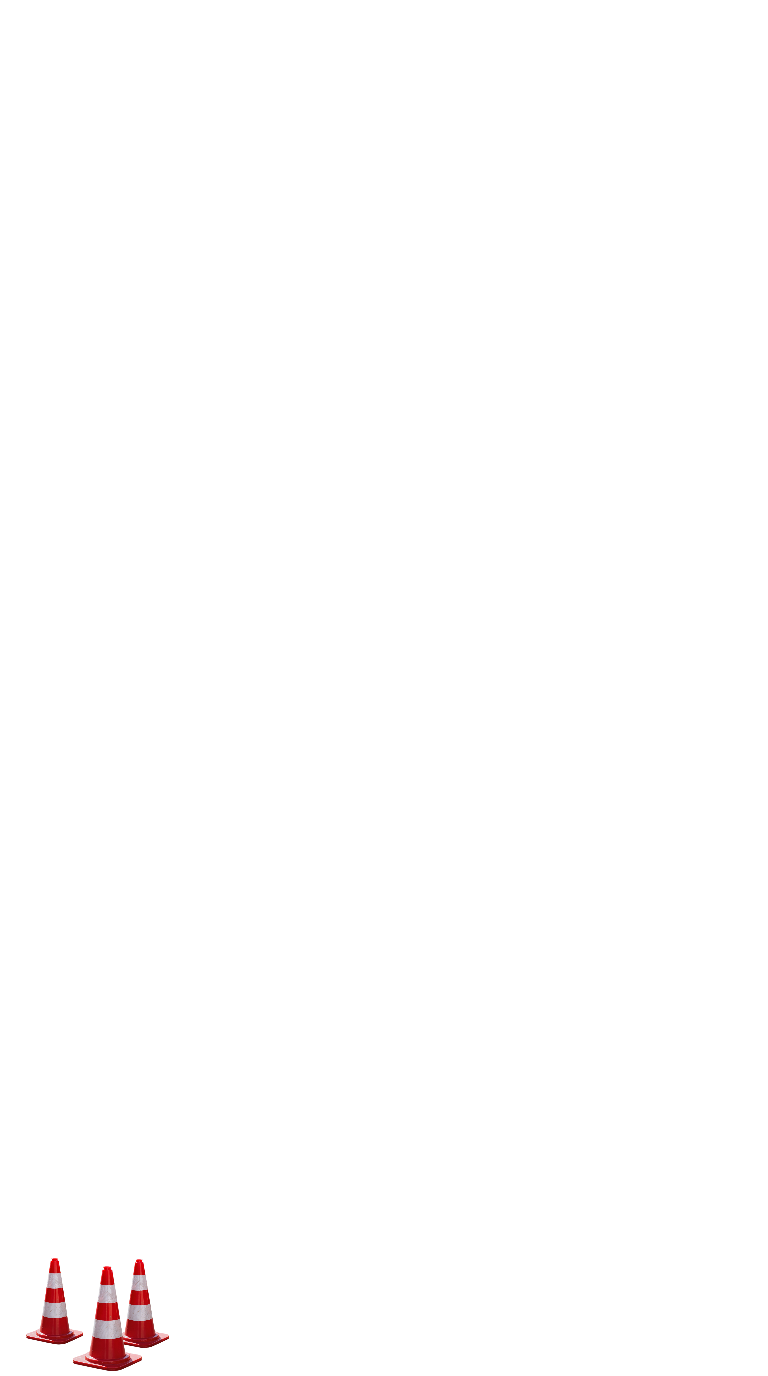
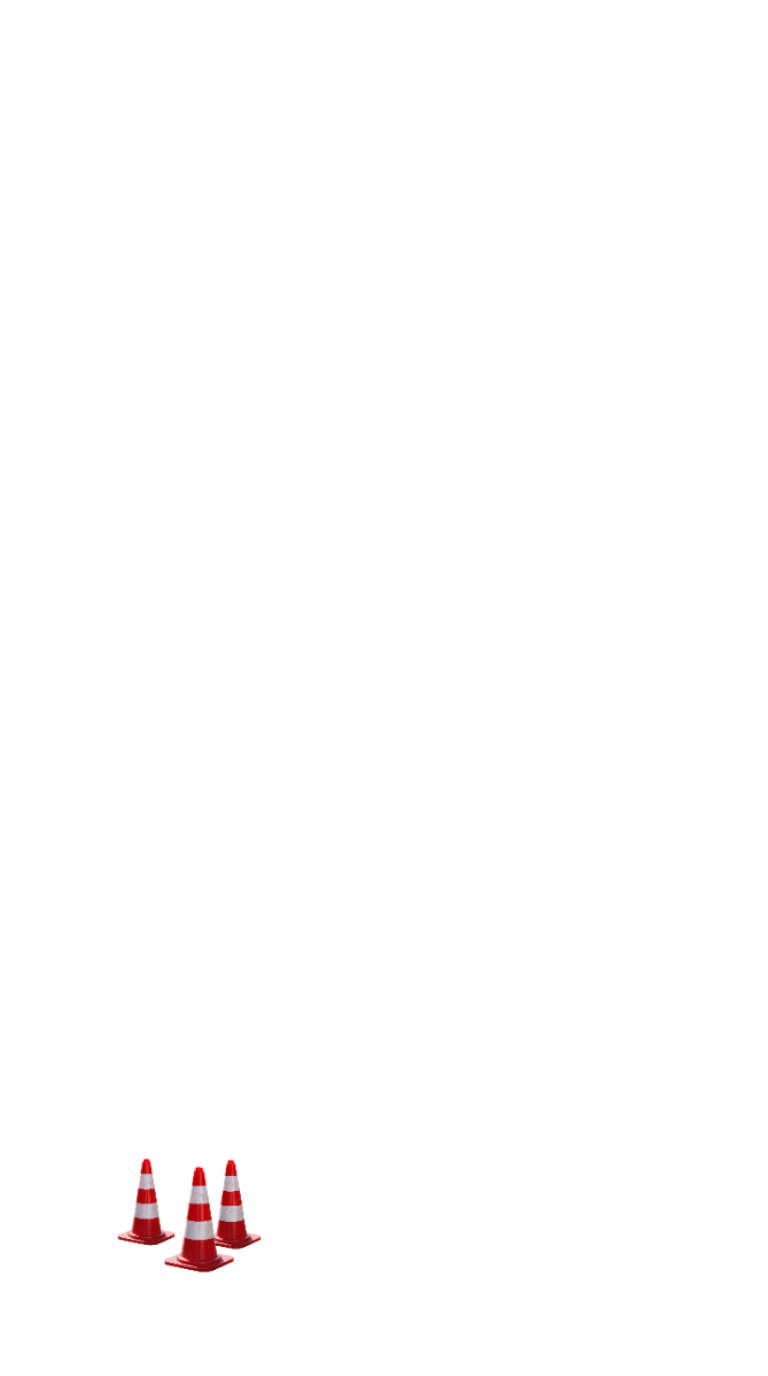
layer3 animation

Changed region(s): [[0.0312, 0.8438, 0.3438, 1.0]]

diff --git a/index.html b/index.html
@@ -3,7 +3,7 @@
 <head>
     <meta charset="UTF-8">
     <meta name="viewport" content="width=device-width, initial-scale=1.0, user-scalable=no, viewport-fit=cover">
-    <title>SCANFREAK AR V2.5 - EXTREME DEPTH + MASSIVE FRAME</title>
+    <title>SCANFREAK AR V2.7 - LAYER 3 IDLE HOVER & CHOREOGRAPHY</title>
     
     <link rel="icon" type="image/png" href="assets/scanfreakblanklogo.png">
     <link rel="apple-touch-icon" href="assets/scanfreakblanklogo.png">
@@ -164,19 +164,20 @@
 
     <script>
         // --- BASE MAPPING ---
+        // NEW: Added l3Idle to control continuous animations before gesture is triggered
         const BASE_DATA = [
-            { name: 'cyberpunk', id: '01', folder: 'cyberpunk layers', wildcardPrefix: 'cyber', count: 10, wildcardZ: -2.75 },
-            { name: 'placeholder2', id: '02', folder: 'design2', wildcardPrefix: 'des2', count: 10, wildcardZ: -2.75 },
-            { name: 'placeholder3', id: '03', folder: 'design3', wildcardPrefix: 'des3', count: 10, wildcardZ: -2.75 },
-            { name: 'placeholder4', id: '04', folder: 'design4', wildcardPrefix: 'des4', count: 10, wildcardZ: -2.75 },
-            { name: 'placeholder5', id: '05', folder: 'design5', wildcardPrefix: 'des5', count: 10, wildcardZ: -2.75 },
-            { name: 'placeholder6', id: '06', folder: 'design6', wildcardPrefix: 'des6', count: 10, wildcardZ: -2.75 },
-            { name: 'placeholder7', id: '07', folder: 'design7', wildcardPrefix: 'des7', count: 10, wildcardZ: -2.75 },
-            { name: 'placeholder8', id: '08', folder: 'design8', wildcardPrefix: 'des8', count: 10, wildcardZ: -2.75 },
-            { name: 'placeholder9', id: '09', folder: 'design9', wildcardPrefix: 'des9', count: 10, wildcardZ: -2.75 },
-            { name: 'placeholder10', id: '10', folder: 'design10', wildcardPrefix: 'des10', count: 10, wildcardZ: -2.75 },
-            { name: 'placeholder11', id: '11', folder: 'design11', wildcardPrefix: 'des11', count: 10, wildcardZ: -2.75 },
-            { name: 'placeholder12', id: '12', folder: 'design12', wildcardPrefix: 'des12', count: 10, wildcardZ: -2.75 }
+            { name: 'cyberpunk', id: '01', folder: 'cyberpunk layers', wildcardPrefix: 'cyber', count: 10, wildcardZ: -2.75, l3AnimType: 'slideLeft', l3Idle: 'hover' },
+            { name: 'placeholder2', id: '02', folder: 'design2', wildcardPrefix: 'des2', count: 10, wildcardZ: -2.75, l3AnimType: 'zoomIn', l3Idle: 'none' },
+            { name: 'placeholder3', id: '03', folder: 'design3', wildcardPrefix: 'des3', count: 10, wildcardZ: -2.75, l3AnimType: 'slideLeft', l3Idle: 'none' },
+            { name: 'placeholder4', id: '04', folder: 'design4', wildcardPrefix: 'des4', count: 10, wildcardZ: -2.75, l3AnimType: 'none', l3Idle: 'none' },
+            { name: 'placeholder5', id: '05', folder: 'design5', wildcardPrefix: 'des5', count: 10, wildcardZ: -2.75, l3AnimType: 'none', l3Idle: 'none' },
+            { name: 'placeholder6', id: '06', folder: 'design6', wildcardPrefix: 'des6', count: 10, wildcardZ: -2.75, l3AnimType: 'none', l3Idle: 'none' },
+            { name: 'placeholder7', id: '07', folder: 'design7', wildcardPrefix: 'des7', count: 10, wildcardZ: -2.75, l3AnimType: 'none', l3Idle: 'none' },
+            { name: 'placeholder8', id: '08', folder: 'design8', wildcardPrefix: 'des8', count: 10, wildcardZ: -2.75, l3AnimType: 'none', l3Idle: 'none' },
+            { name: 'placeholder9', id: '09', folder: 'design9', wildcardPrefix: 'des9', count: 10, wildcardZ: -2.75, l3AnimType: 'none', l3Idle: 'none' },
+            { name: 'placeholder10', id: '10', folder: 'design10', wildcardPrefix: 'des10', count: 10, wildcardZ: -2.75, l3AnimType: 'none', l3Idle: 'none' },
+            { name: 'placeholder11', id: '11', folder: 'design11', wildcardPrefix: 'des11', count: 10, wildcardZ: -2.75, l3AnimType: 'none', l3Idle: 'none' },
+            { name: 'placeholder12', id: '12', folder: 'design12', wildcardPrefix: 'des12', count: 10, wildcardZ: -2.75, l3AnimType: 'none', l3Idle: 'none' }
         ];
 
         const COLLECTION_DATA = {};
@@ -199,6 +200,7 @@
         let activeLayer7Video = null;
         let activeWildcardVideo = null;
         let activeWildcardPlane = null;
+        let isWildcardSequenceRunning = false;
 
         const videoPool = {}; 
         const wildcardPool = {};
@@ -209,17 +211,14 @@
             const targetEl = document.querySelector(`#target-${index}`);
             if (!targetEl) return;
 
-            // Image references for Layers 1-6
             for(let l=1; l<=6; l++) {
                 const plane = targetEl.querySelector(`.l${l}`);
                 plane.setAttribute('src', `parallax/${data.folder}/layer${l}_${data.id}.png`);
             }
 
-            // Layer 7 Frame Setup
             const framePlane = targetEl.querySelector('.l7-frame');
             framePlane.setAttribute('src', `parallax/${data.folder}/layer7_frame_${data.id}.png`);
 
-            // Layer 7 Video Setup
             const l7Plane = targetEl.querySelector('.l7');
             const l7Vid = document.createElement('video');
             l7Vid.crossOrigin = "anonymous"; l7Vid.loop = true; l7Vid.preload = "auto";
@@ -228,7 +227,6 @@
             document.body.appendChild(l7Vid);
             videoPool[index] = l7Vid;
 
-            // Wildcard Video Setup
             const wildcardPlane = targetEl.querySelector('.wildcard-layer');
             const wildcardVid = document.createElement('video');
             wildcardVid.crossOrigin = "anonymous"; wildcardVid.loop = false; wildcardVid.preload = "auto";
@@ -236,10 +234,27 @@
             document.body.appendChild(wildcardVid);
             wildcardPool[index] = wildcardVid;
 
-            // MUTE / UNMUTE LOGIC
+            // MUTE / UNMUTE & REVERSE ANIMATION LOGIC
             wildcardVid.addEventListener('ended', () => {
                 wildcardPlane.setAttribute('visible', false);
+                isWildcardSequenceRunning = false;
+                
                 if (activeLayer7Video) activeLayer7Video.muted = false;
+
+                // Bring Layer 3 back to original state
+                const l3Plane = targetEl.querySelector('.l3');
+                if (data.l3AnimType === 'slideLeft') {
+                    l3Plane.setAttribute('animation', 'property: position; to: 0 0 -1.60; dur: 800; easing: easeInOutQuad');
+                } else if (data.l3AnimType === 'zoomIn') {
+                    l3Plane.setAttribute('animation', 'property: scale; to: 1 1 1; dur: 800; easing: easeInOutQuad');
+                }
+
+                // Restart hover after entrance animation finishes
+                setTimeout(() => {
+                    if (activeTargetIndex === index && data.l3Idle === 'hover') {
+                        l3Plane.setAttribute('animation__hover', 'property: position; from: 0 0 -1.60; to: 0 0.08 -1.60; dir: alternate; dur: 2000; loop: true; easing: easeInOutSine');
+                    }
+                }, 800);
             });
 
             targetEl.addEventListener('targetFound', () => {
@@ -257,9 +272,14 @@
                 document.getElementById('record-btn').classList.add('visible');
 
                 for(let l=1; l<=6; l++) targetEl.querySelector(`.l${l}`).setAttribute('visible', true);
-                
                 framePlane.setAttribute('visible', true);
                 
+                // Start normal Idle Hover if configured
+                if (data.l3Idle === 'hover') {
+                    const l3Plane = targetEl.querySelector('.l3');
+                    l3Plane.setAttribute('animation__hover', 'property: position; from: 0 0 -1.60; to: 0 0.08 -1.60; dir: alternate; dur: 2000; loop: true; easing: easeInOutSine');
+                }
+
                 l7Plane.setAttribute('material', {src: l7Vid});
                 l7Plane.setAttribute('visible', true);
                 l7Vid.play().catch(e => { l7Vid.muted = true; l7Vid.play(); });
@@ -267,6 +287,8 @@
 
             targetEl.addEventListener('targetLost', () => {
                 activeTargetIndex = null;
+                isWildcardSequenceRunning = false;
+                
                 document.getElementById('screenshot-btn').classList.remove('visible'); 
                 document.getElementById('record-btn').classList.remove('visible');
                 
@@ -278,6 +300,14 @@
                 l7Vid.pause();
                 wildcardVid.pause();
                 wildcardPlane.setAttribute('visible', false);
+
+                // RESET FAILSAFE: Strip all animations and snap L3 back to default if tracking is lost mid-animation
+                const l3Plane = targetEl.querySelector('.l3');
+                l3Plane.removeAttribute('animation__hover');
+                l3Plane.removeAttribute('animation');
+                l3Plane.setAttribute('position', '0 0 -1.60');
+                l3Plane.setAttribute('scale', '1 1 1');
+                l7Vid.muted = false;
             });
         };
 
@@ -310,7 +340,7 @@
         let isDrawing = false;
 
         window.addEventListener('pointerdown', (e) => {
-            if (!isStarted || activeTargetIndex === null) return;
+            if (!isStarted || activeTargetIndex === null || isWildcardSequenceRunning) return;
             isDrawing = true;
             touchPoints = [{x: e.clientX, y: e.clientY}];
         });
@@ -325,7 +355,7 @@
             isDrawing = false;
             
             if (analyzeGesture(touchPoints)) {
-                triggerWildcard(activeTargetIndex);
+                initiateWildcardSequence(activeTargetIndex);
             }
         });
 
@@ -349,14 +379,43 @@
             return Math.abs(totalAngle) > (3.5 * Math.PI);
         }
 
-        function triggerWildcard(targetIndex) {
+        function initiateWildcardSequence(targetIndex) {
             const data = COLLECTION_DATA[targetIndex];
             if (!data) return;
+
+            isWildcardSequenceRunning = true; // Prevent re-triggering
 
             if (navigator.vibrate) navigator.vibrate([100, 50, 100]); 
             const feedback = document.getElementById('gesture-feedback');
             feedback.style.opacity = '1';
             setTimeout(() => feedback.style.opacity = '0', 3000);
+
+            const l3Plane = document.querySelector(`#target-${targetIndex} .l3`);
+
+            // Stop hover effect immediately
+            if (data.l3Idle === 'hover') {
+                l3Plane.removeAttribute('animation__hover');
+            }
+
+            // Check config and trigger the assigned animation
+            if (data.l3AnimType === 'slideLeft') {
+                // X = -3.5 moves the 2.0 width plane entirely out of the FOV
+                l3Plane.setAttribute('animation', 'property: position; to: -3.5 0 -1.60; dur: 800; easing: easeInOutQuad');
+                setTimeout(() => playWildcard(data), 800);
+            } else if (data.l3AnimType === 'zoomIn') {
+                // For zoom, ensure it is centered from hover, then scale up
+                l3Plane.setAttribute('position', '0 0 -1.60');
+                l3Plane.setAttribute('animation', 'property: scale; to: 2 2 2; dur: 800; easing: easeInOutQuad');
+                setTimeout(() => playWildcard(data), 800);
+            } else {
+                // No animation assigned, ensure it's centered, play immediately
+                l3Plane.setAttribute('position', '0 0 -1.60');
+                playWildcard(data);
+            }
+        }
+
+        function playWildcard(data) {
+            if (!isWildcardSequenceRunning) return; // Failsafe if target lost during animation
 
             if (activeLayer7Video) activeLayer7Video.muted = true;
 
